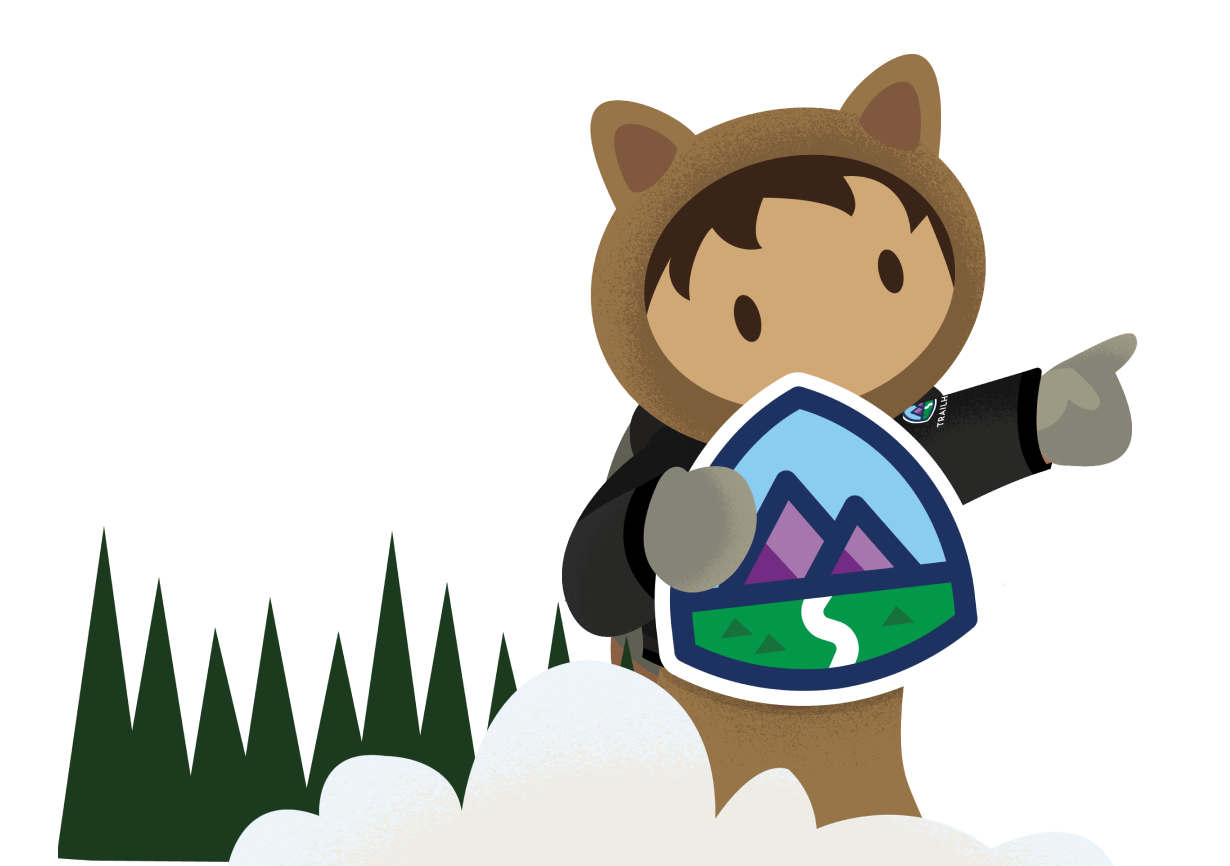
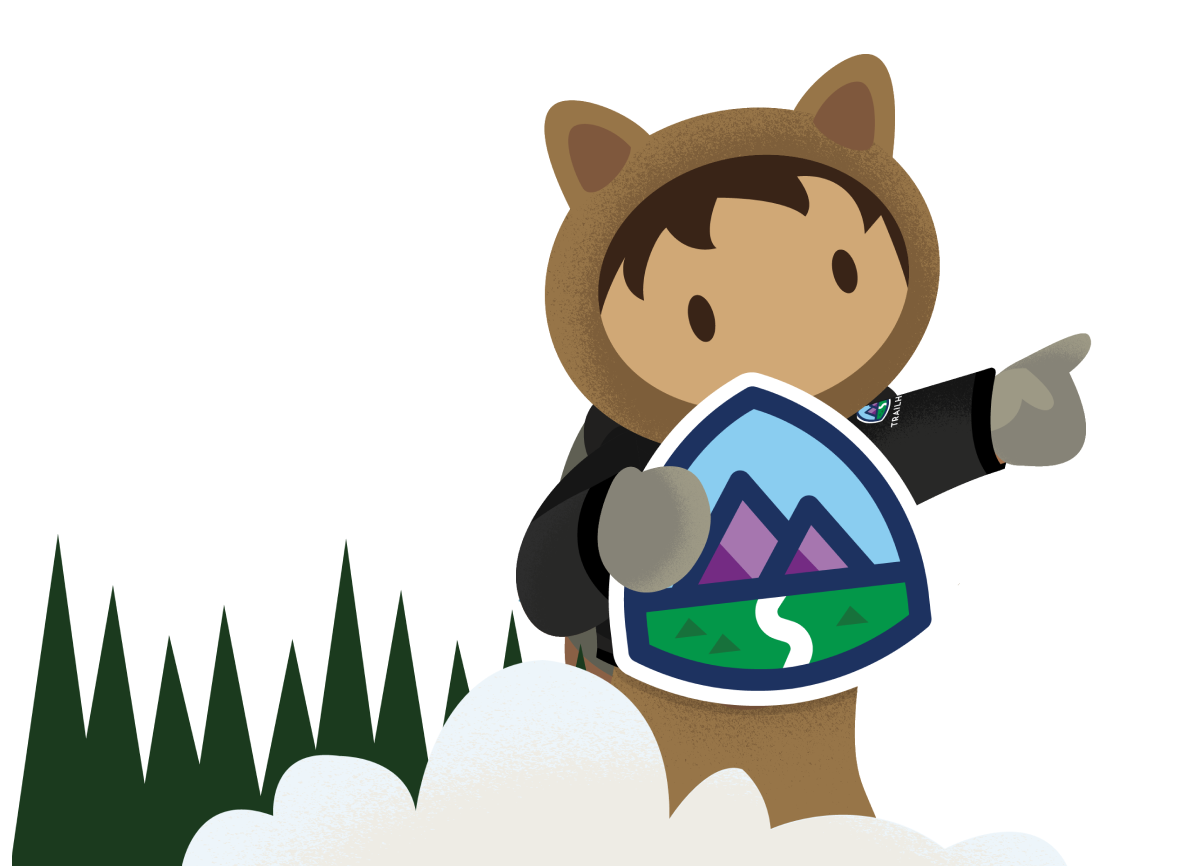
update backgrounds and animate between states

Changed region(s): [[0.0, 0.0624, 0.875, 1.0], [0.9062, 0.4053, 0.9375, 0.53], [0.5625, 0.343, 0.625, 0.4053]]

diff --git a/static/pages/wheelPage.vue b/static/pages/wheelPage.vue
@@ -15,7 +15,9 @@ limitations under the License.
 -->
 <template>
   <div style="height: 100vh; /* 99vh */">
-    <div id="background-elements">
+    <div id="background-elements" :class="{
+      'wheel-aside-enter': wheelAside,
+    }">
       <div id="background-astro" class="background-element" :style="bgAstroLeft"></div>
       <div id="background-clouds" class="background-element" :style="bgCloudsMiddle"></div>
       <div id="background-cody" class="background-element" :style="bgCodyRight"></div>
@@ -203,6 +205,7 @@ limitations under the License.
     },
     data() {
       return {
+        wheelAside: false,
         waitAnimation: {},
         // imgAstroLeft: require('../images/astro-left.png'),
         bgAstroLeft: "background-image: url('/images/astro-left.png')",
@@ -355,6 +358,7 @@ limitations under the License.
         Audio.startMusic(this.wheelConfig.duringSpinSound, this.wheelConfig.duringSpinSoundVolume);
       },
       wheelStopped(winningEntry) {
+        this.wheelAside = true;
         Audio.fadeMusic();
         this.$store.commit('addWinner', winningEntry);
         if (this.wheelConfig.animateWinner) {
@@ -435,6 +439,7 @@ limitations under the License.
       },
       readyTheWheel() {
         console.log('ready the wheel');
+        this.wheelAside = false;
         this.$refs.spinningwheel.readyMarkSet();
       },
       resetWheelRotation() {
@@ -500,20 +505,37 @@ limitations under the License.
     width: 100vw;
     height: 100vh;
     background-repeat: no-repeat;
+    transition-property: background-position-x, transform;
+    transition-timing-function: ease-out;
   }
 
   #background-astro {
-    background-position: 0vw bottom;
-    background-size: 20%;
+    background-position: -5vw bottom;
+    background-size: 30%;
+    transition-duration: 1s;
   }
 
   #background-clouds {
-    background-position: 35vw bottom;
+    background-position: 70vw bottom;
     background-size: 45%;
+    transition-duration: 1s;
   }
 
   #background-cody {
-    background-position: 65vw bottom;
-    background-size: 45%;
+    background-position: 150vw bottom;
+    background-size: 35%;
+    transition-duration: 1.5s;
   }
-</style>
+
+  .wheel-aside-enter {
+    #background-astro {
+      background-position-x: -50vw;
+    }
+    #background-clouds {
+      background-position-x: 10vw;
+    }
+    #background-cody {
+      background-position-x: 77vw;
+    }
+  }
+  </style>
